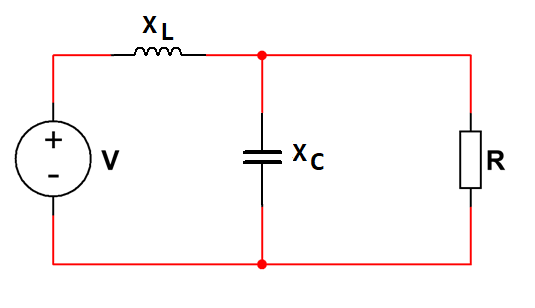
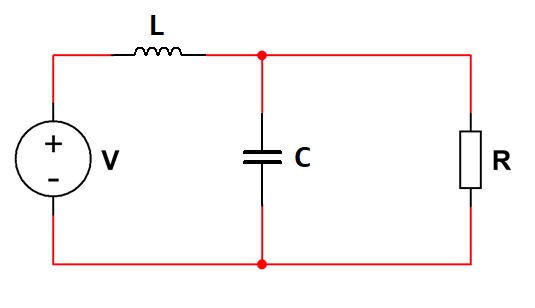
Updated diagrams, fixed bugs

diff --git a/js/main.js b/js/main.js
@@ -24,6 +24,12 @@ const openQuestion = (questionId) => {
 }
 
 const questions = {
+	kirchhoff: {
+		questionId: "kirchhoff",
+		title: "Kirchhoff's Laws",
+		text: ["Determine the current flowing through R2 in the circuit shown using Kirchhoff's laws", "Using Kirchhoff's laws, find the current flowing through R2 in the circuit shown" ],
+		createProblem: () => { createKirchhoffProblem() }
+	},
 	superposition: {
 		questionId: "superposition",
 		title: "Superposition",

diff --git a/js/kirchhoff.js b/js/kirchhoff.js
@@ -8,19 +8,12 @@ const createKirchhoffProblem = () => {
 
 const generateKirchhoffComponents = () => {
 	return {
-		V1: 10,
-		V2: 5,
-		R1: 5,
-		R2: 9,
-		R3: 21
-	}
-	/*return {
 		V1: generateRandomInt(5, 25),
 		V2: generateRandomInt(5, 25),
 		R1: generateRandomInt(1, 50),
 		R2: generateRandomInt(1, 50),
 		R3: generateRandomInt(1, 50)
-	}*/
+	}
 }
 
 const solveKirchhoff = (componentValues) => {

diff --git a/js/superposition.js b/js/superposition.js
@@ -8,21 +8,13 @@ const createSuperpositionProblem = () => {
 
 const generateSuperpositionComponents = () => {
 	return {
-		V1: 10,
-		V2: 5,
-		R1: 5,
-		R2: 9,
-		R3: 21
-	}
-
-	/*return {
 		V1: generateRandomInt(5, 25),
 		V2: generateRandomInt(5, 25),
 		R1: generateRandomInt(1, 50),
 		R2: generateRandomInt(1, 50),
 		R3: generateRandomInt(1, 50)
 
-	}*/
+	}
 }
 
 
